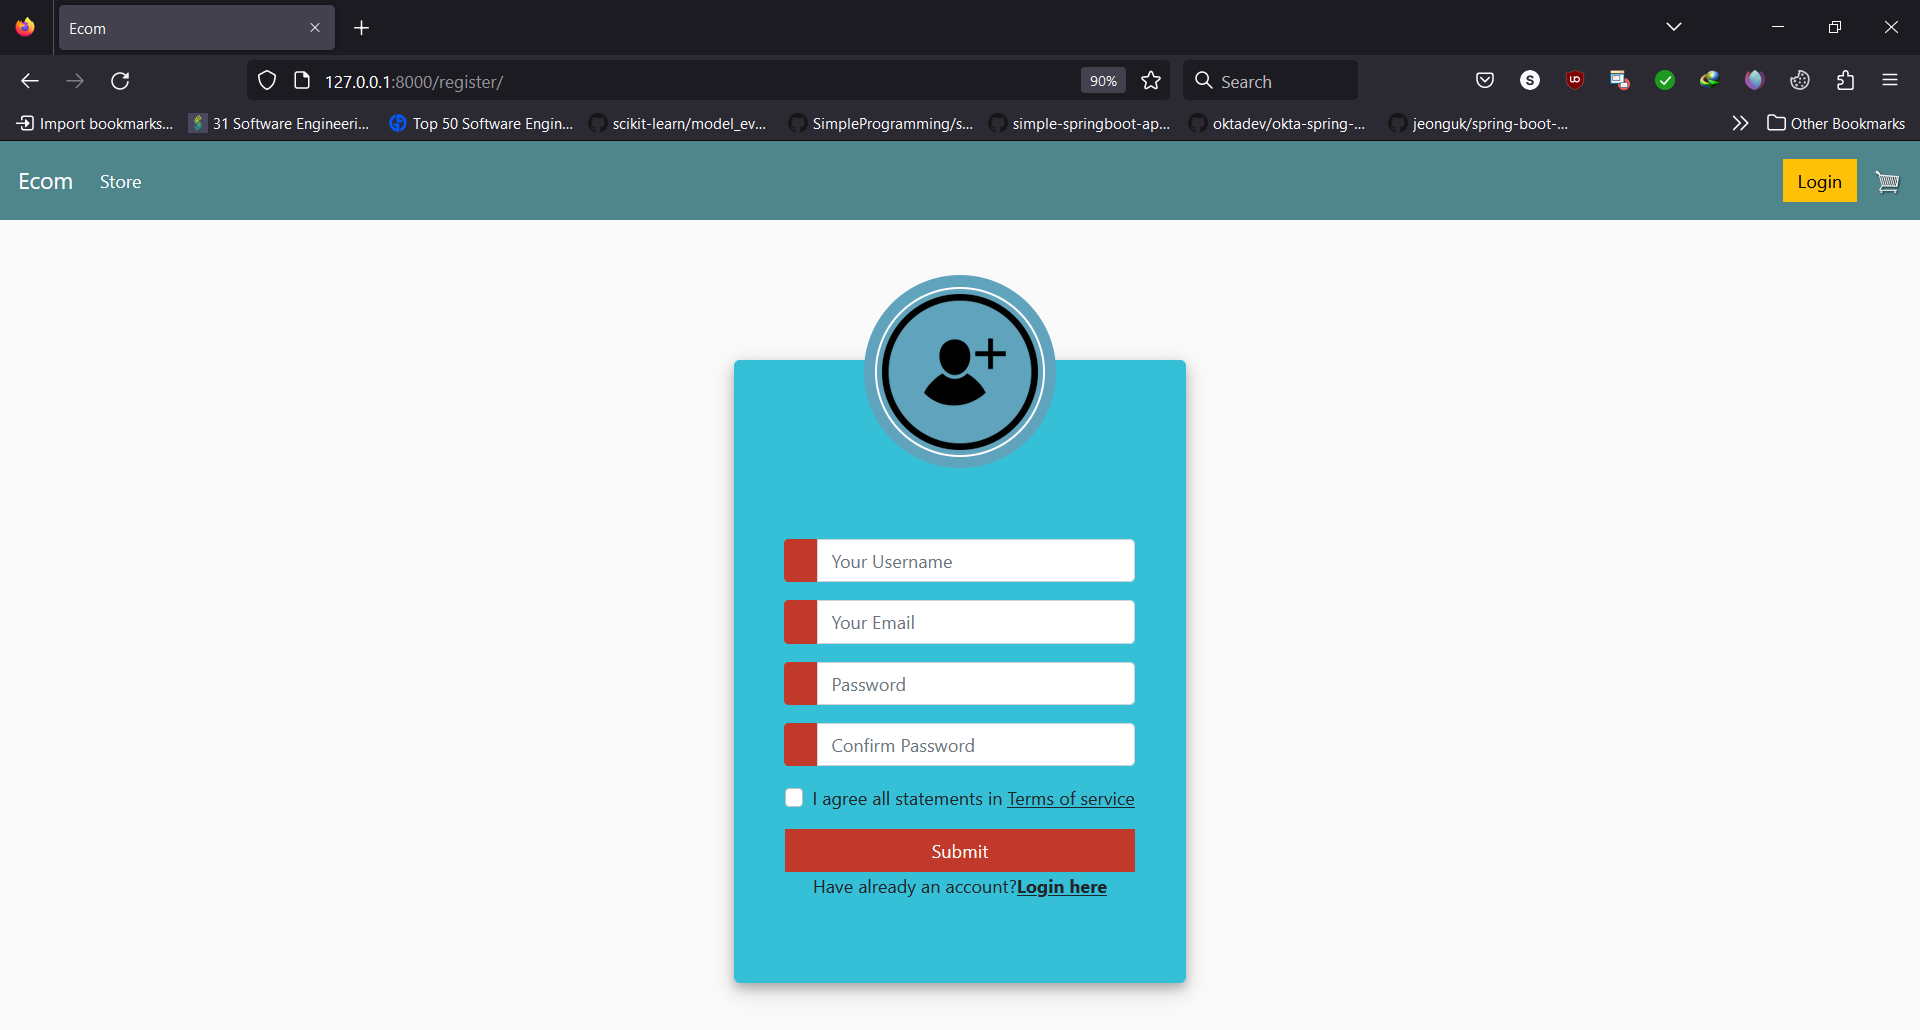
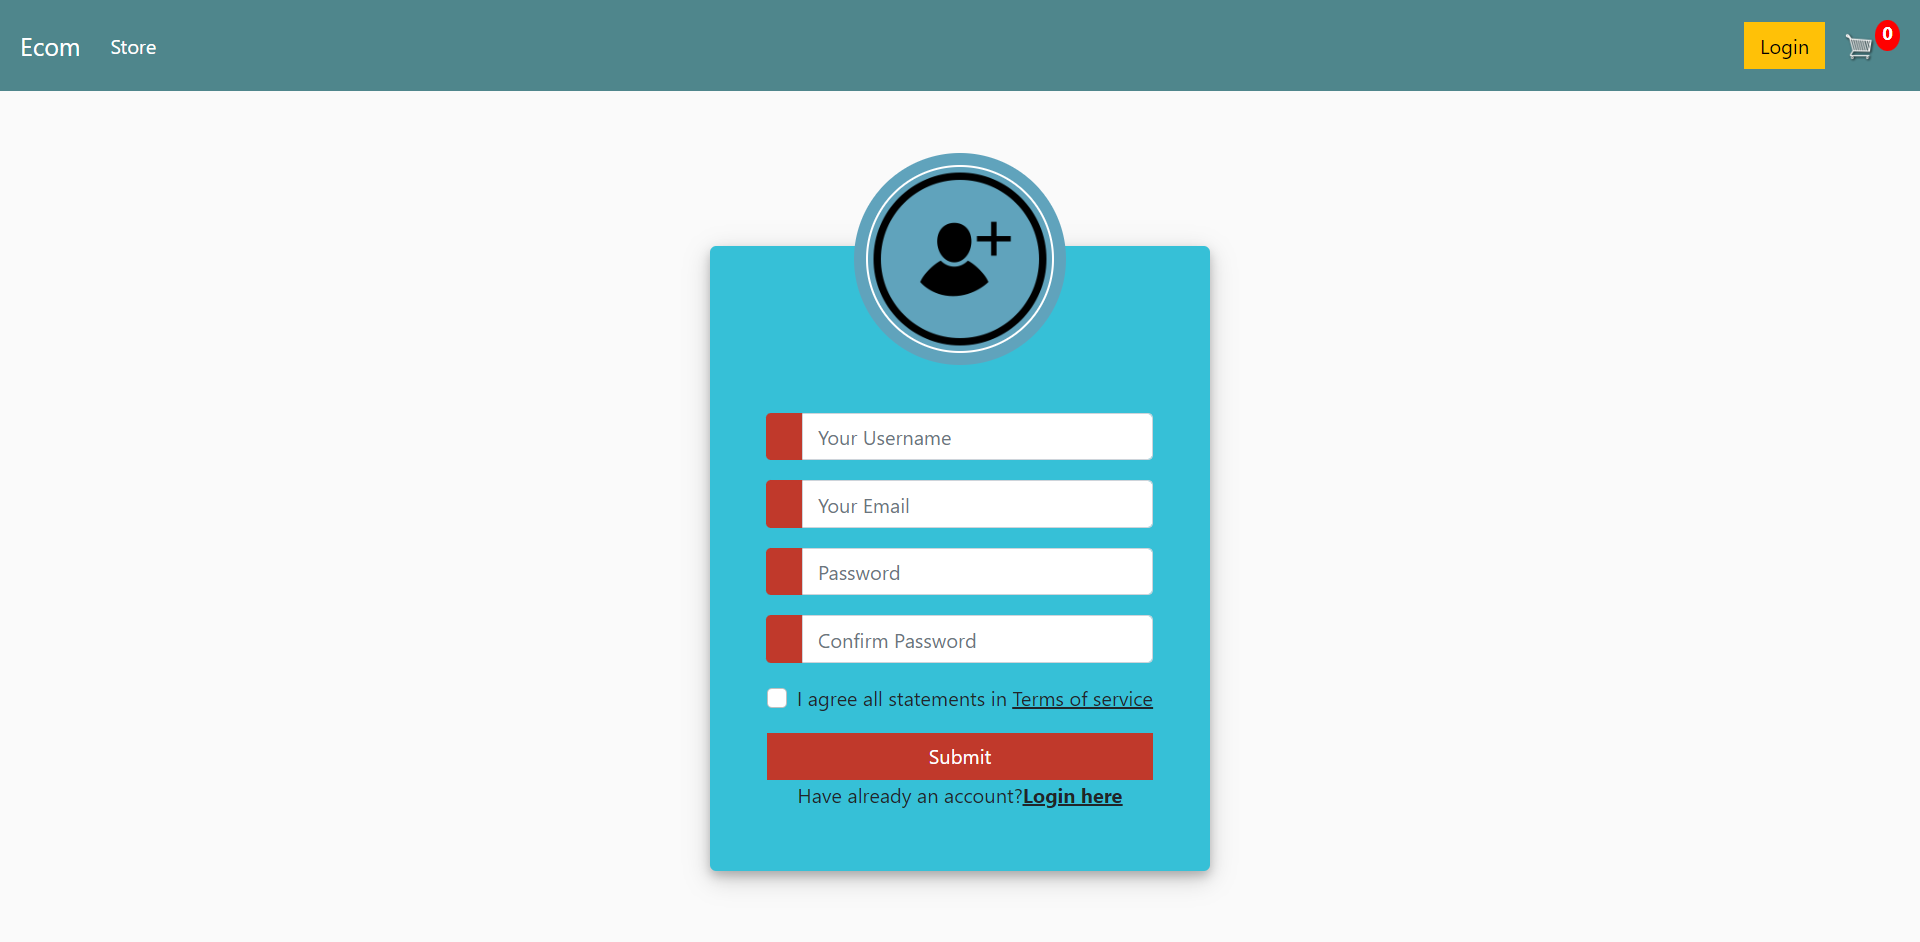
pic updated

diff --git a/mysite/myapp/templates/store/main.html b/mysite/myapp/templates/store/main.html
@@ -89,11 +89,10 @@
 				<img  id="cart-icon" src="{% static 'images/cart.png' %}">
 			</a>
 			{% if cartItems != None %}
-				<p id="cart-total" class="cart-total">{{cartItems}}</p>
+				<p id="cart-total" class="cart-total text-white fw-bold">{{cartItems}}</p>
 			{% else %}
-				<p id="cart-total1" class="cart-total text-danger fw-bold"></p>
+				<p id="cart-total1" class="cart-total text-white fw-bold">0</p>
 			{% endif %}
-
 	    </div>
 	  </div>
 	</nav>

diff --git a/mysite/myapp/templates/store/register.html b/mysite/myapp/templates/store/register.html
@@ -19,7 +19,7 @@
 <section>
 <div class="container h-100 login-container">
 		<div class="d-flex justify-content-center h-100">
-			<div class="user_card" style="width:400px; height:550px">
+			<div class="user_card" style="width:400px; height:500px">
 				<div class="d-flex justify-content-center">
 					<div class="brand_logo_container">
 						<img src="{% static 'images/user-plus-icon2.png'%}" class="brand_logo" alt="Logo">

diff --git a/mysite/myapp/views.py b/mysite/myapp/views.py
@@ -106,6 +106,7 @@ def single_product(request, id):
 
 def updateItem(request):
     data = json.loads(request.body)
+    print(data)
     productId = data['productId']
     action = data['action']
     print('Action:', action)
